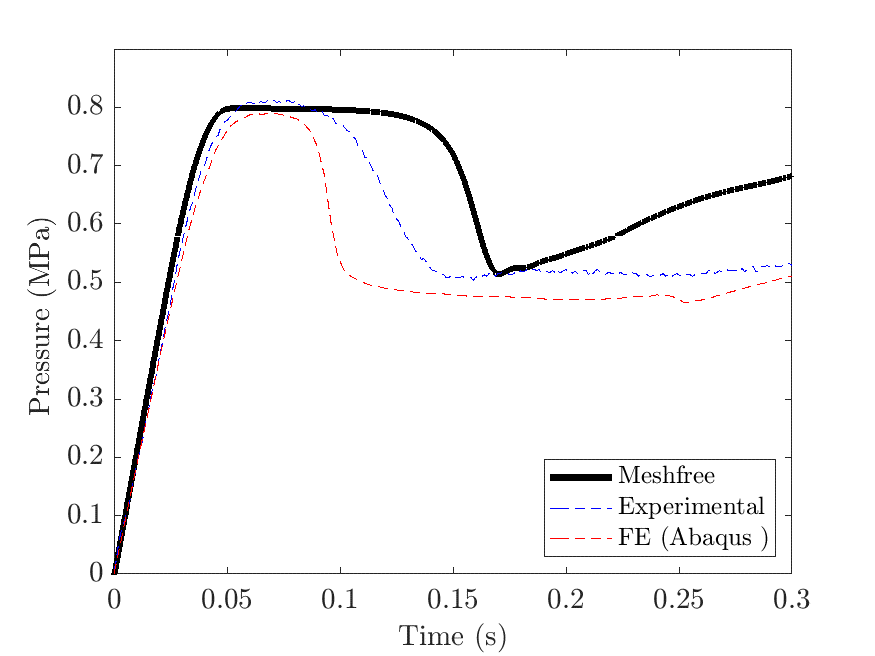
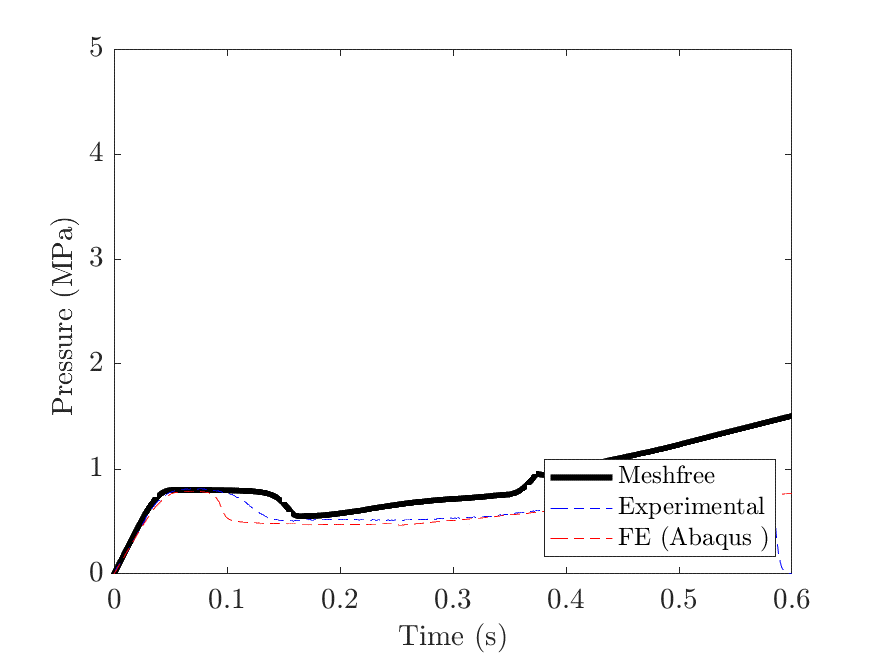
implementing cell based seach

diff --git a/MFREEX/src/cellSearch.c b/MFREEX/src/cellSearch.c
@@ -1,4 +1,32 @@
 #include "cellSearch.h"
+#include <stdbool.h>
+
+
+static inline void deleteList()
+{
+
+	// iterate to the node before the node we wish to delete
+
+	// save the node we wish to delete in a temporary pointer
+
+	// set the previous nodes next pointer to point to the node after the node we wish to delete
+
+
+	// delete the node using the temporary pointer
+
+}
+static inline void insertList()
+{
+
+	// create a new value and set its value
+
+	// link the new item to point ot the head of the list
+
+	// set of head of the list be our new item
+
+
+
+}
 
 
 CELLS * create_cells(BOUNDING_BOX * bounding_box, double * CELL_SIZE, int dim, MAT * NODES)
@@ -143,4 +171,105 @@ BOUNDING_BOX * create_bounding_box(double xmin, double xmax, double ymin, double
 
 
 	return bounding_box;
+}
+
+
+int  * get_active_cells(CELLS * grid)
+{
+
+
+
+	// returns a sorted array of active cell indicies
+
+	return NULL;
+}
+
+
+int move_nodes(CELLS * grid, int * active_cells, int num_active_cells,
+ int * nc, double * l, MAT * nodes)
+{
+
+	CELL ** grid_cells = grid->cells;
+
+	// Only loop over the active_cells
+	int i = 0;
+	int j = 0;
+
+	int i_new = 0;
+	int j_new = 0;
+
+
+	int k = 0;
+	int k_new = 0;
+	int cell_number = 0;
+	int dim = nodes->n;
+
+	NODELIST * p = NULL;
+	NODELIST * q = NULL;
+
+	double x,y,z;
+
+	if ( dim == 2)
+	{
+
+		int nx = nc[0];
+		int ny = nc[1];
+
+		for ( int i = 0 ; i < num_active_cells ; i++)
+		{
+
+			cell_number = active_cells[i];
+
+			// translate into each cell number into its i,j grid reference
+
+			i = (int) floor(cell_number/ny);
+			j = cell_number - i*ny;
+
+
+			p = grid_cells[i][j].nodes;
+			q = p;
+
+			while ( p != NULL)
+			{
+
+				x = nodes->me[p->node_number][0];
+				y = nodes->me[p->node_number][1];
+
+
+				i = (int)floor(x*nc[0]/l[0]);
+				j = (int)floor(y*nc[1]/l[1]);
+
+				if (( i_new != i ) ||  (j_new != j))
+				{
+					//delete point
+
+					// insert point into the correct grid
+
+
+				}else{
+
+				}
+
+				p = p->next;
+
+
+			}
+
+
+
+
+
+
+		}
+
+
+
+
+
+
+	}
+
+
+
+	return num_active_cells;
 }

diff --git a/problems/preform/preform.c b/problems/preform/preform.c
@@ -36,11 +36,11 @@ const int BUCKLEY_MATERIAL = 1;
 const int PLASTIC_MATERIAL = 0;
 
 // time step parameters
-const double TMAX = 0.45;
+const double TMAX = 1;
 double delta_t = 5e-7;
 
 // Meshfree parameters
-const double dmax = 2;
+const double dmax = 3;
 const double dmax_x =2;
 const double dmax_y =2;
 double beta = 1.1;
@@ -142,6 +142,8 @@ int main(int argc, char** argv) {
 	double P0 = 0;
 	double tLine = 304.724;
 	double pLine = 0.8; // 0.6 Mpa;
+	double pLine_FINAL = 3;
+	double aReduced_final = 0.001;
 	double molarMass = 29;
 	double Rg = 8.314;
 	double rLine = Rg/molarMass;
@@ -638,6 +640,7 @@ int main(int argc, char** argv) {
 	double pre_n_1 = 0; 
 	double volume = 0;
 	double volume_t = 0;
+	double pLine_n;
 
 	double v_rod = 0;
 
@@ -801,12 +804,20 @@ int main(int argc, char** argv) {
 		volume = cavityVolume(traction_nodes,updatedNodes);
 
 
+		if ( t_n_1 < 0.35)
+		{
+			pLine_n = pLine;
+		}else{
+			pLine_n = pLine + (pLine_FINAL-pLine) * smoothstep(t_n_1, 0.40, 0.350);
+			aReduced = aReduced_final;
+		}
+
 		/*  Find Cavity pressure */
-		pRatio = pre_n/pLine;
+		pRatio = pre_n/pLine_n;
 		if ( pRatio <= 0.528){
 			massAir += chokedMassRate*delta_t;
 		}else{
-			massAir += flowRate(pRatio,tLine,pLine*1e6, rLine, aReduced,gammaLine)*delta_t;
+			massAir += flowRate(pRatio,tLine,pLine_n*1e6, rLine, aReduced,gammaLine)*delta_t;
 		}
 		pre_n_1 = ((P0*(volume - volumeInitial) + 1000*massAir*rLine*tLine)/(volume+vDead));
 

diff --git a/matlab/preform/stretch_rod.m b/matlab/preform/stretch_rod.m
@@ -1,0 +1,27 @@
+close all
+clear all 
+
+
+a0 = -2.2264e7;
+a1 = 2.3704e7;
+a2 = -9.3769e6;
+a3 = 1.6212e6;
+a4 = -9.73804e4;
+a5 = -1.8801e3;
+a6 = 559.3131;
+a7 = 0.2565;
+
+
+p = @(x) a0*x.^7 + a1 * x.^6 + a2*x.^5 + a3*x.^4 + a4*x.^3 + a5*x.^2 + a6*x + a7;
+
+
+t = linspace(0,0.31,50);
+
+y = p(t);
+
+y= [y,y(end)];
+t =[t,1];
+
+plot(t,y)
+
+data = [t',y'];

diff --git a/matlab/preform/ProcessingN4T100_mould.m b/matlab/preform/ProcessingN4T100_mould.m
@@ -6,7 +6,7 @@ PLOT_DOMAINS_INFLUENCE = true;
 
 
 WITH_MOULD = true;
-TMAX = 0.3;
+TMAX = 0.6;
 
 
 
@@ -338,7 +338,7 @@ plot(m(:,1),m(:,2),'k-','linewidth',3);
 xlabel('time');
 ylabel('Pressure');
 xlim([0,TMAX])
-ylim([0,0.9])
+ylim([0,5])
 
 b = csvread("Experimental/N4T100_exp_pressure.csv");
 hold on
